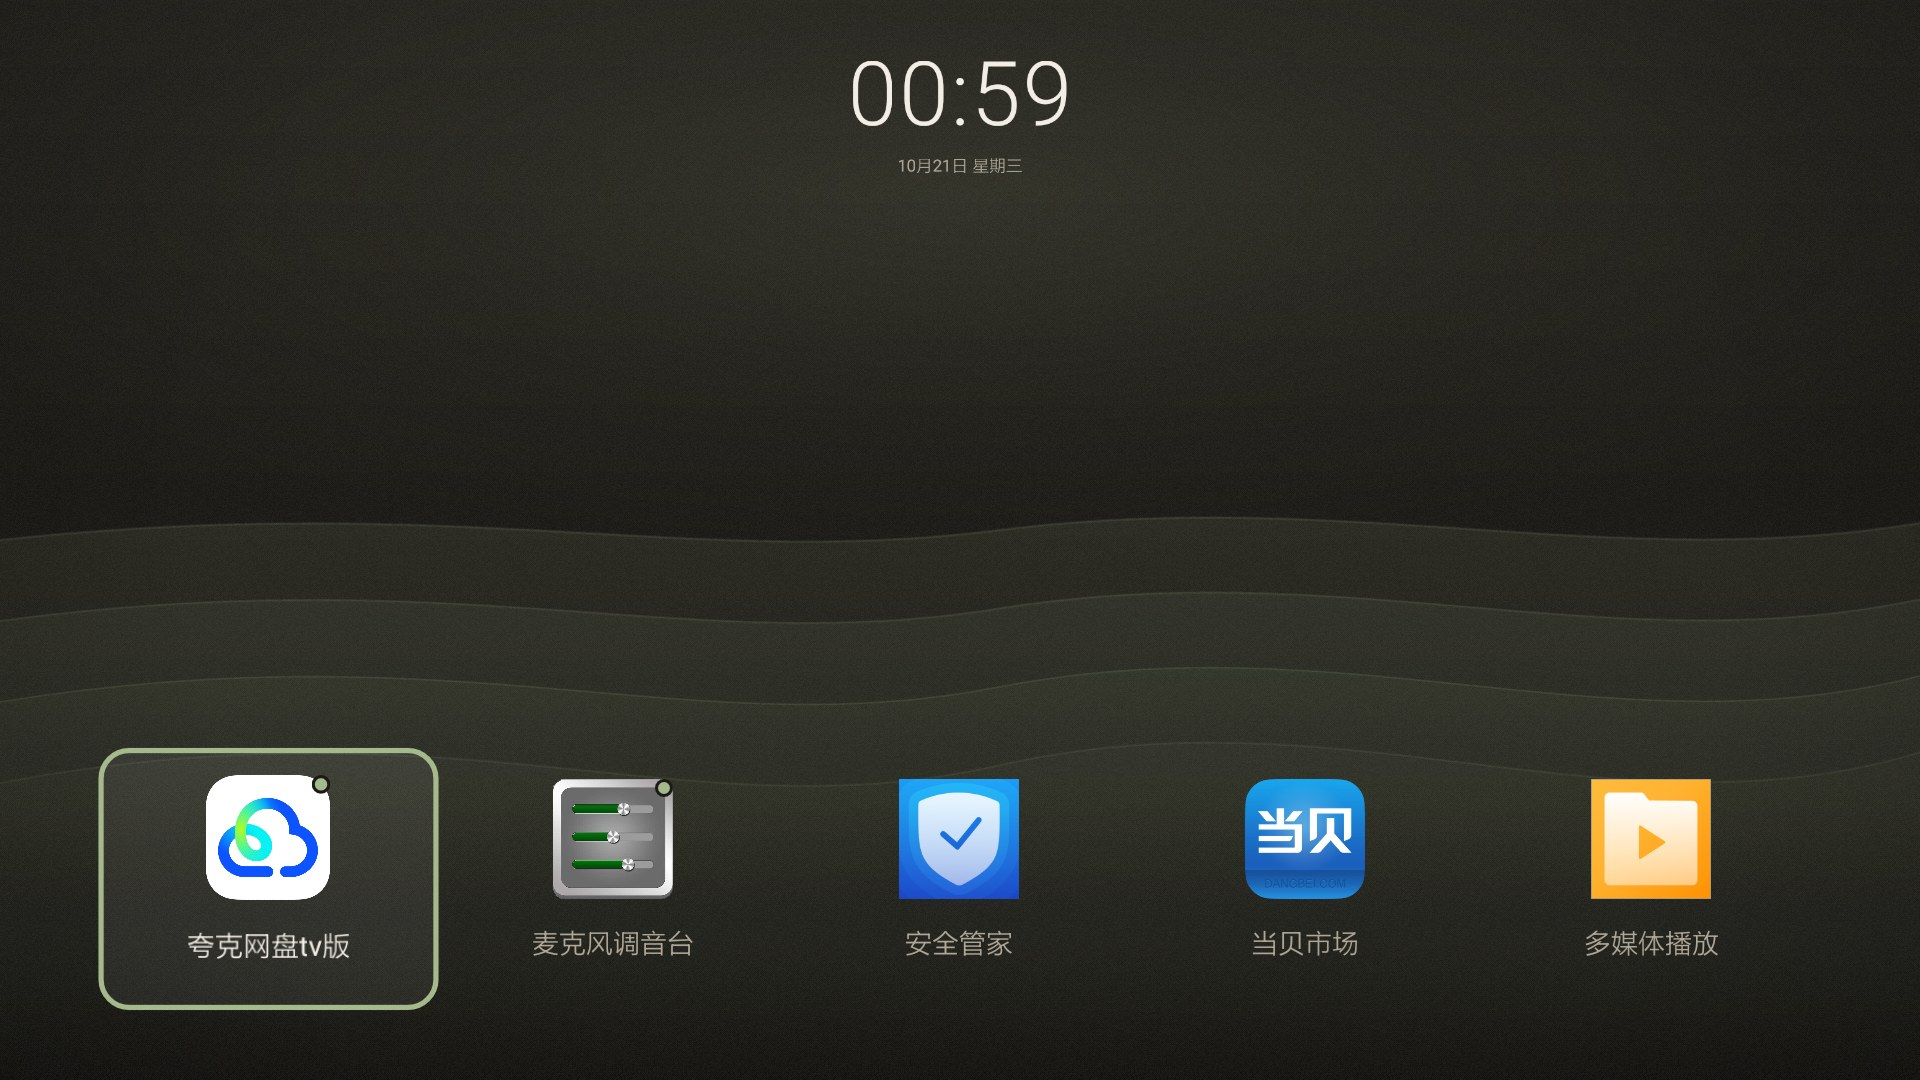
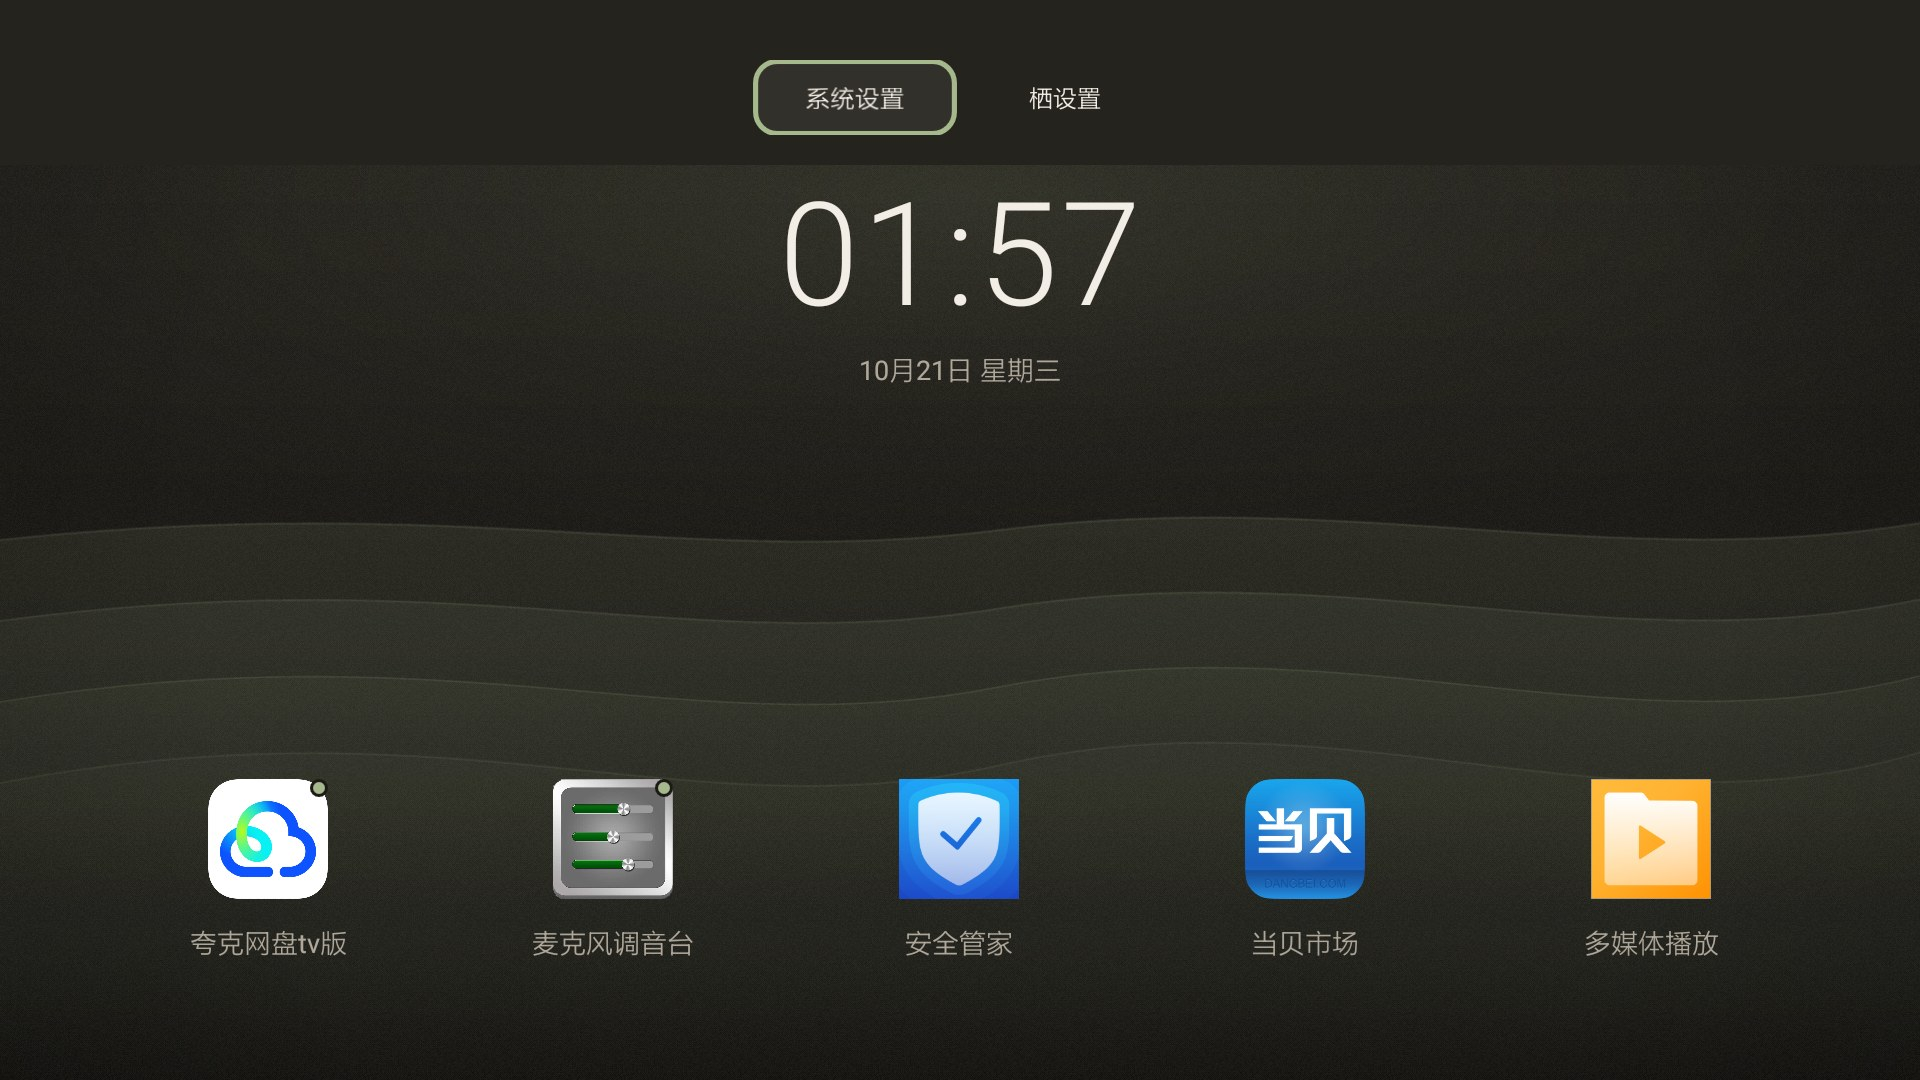
Show only the shortcuts the device can actually open
The bar offered seven entries on every device, but on the box only two of them
resolved and both landed on the same settings root; the other four pointed at
activities its TV settings app does not ship. It is now a short menu - system
settings, Perch settings, and an input source when the device exposes one -
rebuilt on every open, so an entry that cannot launch is simply absent.

The input-source entry has no public intent behind it: the candidates are the
AOSP TV settings and live-TV activities plus the action some OEM settings
register, and anything that does not resolve stays hidden.

diff --git a/src/io/github/duanechen520/perch/MainActivity.java b/src/io/github/duanechen520/perch/MainActivity.java
@@ -59,20 +59,11 @@ public class MainActivity extends Activity {
     private static final int DOCK_BOTTOM_DP = 44;
     private static final int SLIDE_MS = 220;
 
-    private static final int QUICK_NETWORK = 1;
-    private static final int QUICK_BLUETOOTH = 2;
-    private static final int QUICK_DISPLAY = 3;
-    private static final int QUICK_SOUND = 4;
-    private static final int QUICK_ACCESSIBILITY = 5;
-    private static final int QUICK_ALL_SETTINGS = 6;
-    private static final int QUICK_PERCH = 7;
-
     private final Handler handler = new Handler(Looper.getMainLooper());
     private final List<AppRepository.AppEntry> apps =
             new ArrayList<AppRepository.AppEntry>();
     private final List<View> tiles = new ArrayList<View>();
     private final List<TextView> appLabels = new ArrayList<TextView>();
-    private final List<TextView> sheetLabels = new ArrayList<TextView>();
 
     private final Runnable ticker = new Runnable() {
         @Override
@@ -372,7 +363,7 @@ public class MainActivity extends Activity {
     private void buildSheet() {
         sheet = new LinearLayout(this);
         sheet.setOrientation(LinearLayout.HORIZONTAL);
-        sheet.setGravity(Gravity.CENTER_VERTICAL);
+        sheet.setGravity(Gravity.CENTER);
         sheet.setBackgroundColor(color(R.color.sheet));
         sheet.setPadding(dp(64), dp(40), dp(64), dp(20));
         sheet.setVisibility(View.GONE);
@@ -380,44 +371,64 @@ public class MainActivity extends Activity {
                 ViewGroup.LayoutParams.MATCH_PARENT,
                 ViewGroup.LayoutParams.WRAP_CONTENT,
                 Gravity.TOP));
+    }
 
-        int[] actions = {
-                QUICK_NETWORK, QUICK_BLUETOOTH, QUICK_DISPLAY, QUICK_SOUND,
-                QUICK_ACCESSIBILITY, QUICK_ALL_SETTINGS, QUICK_PERCH
-        };
-        int[] labels = {
-                R.string.quick_network, R.string.quick_bluetooth,
-                R.string.quick_display, R.string.quick_sound,
-                R.string.quick_accessibility, R.string.quick_all_settings,
-                R.string.quick_perch
-        };
-        for (int i = 0; i < actions.length; i++) {
-            final int action = actions[i];
-            TextView item = new TextView(this);
-            item.setText(labels[i]);
-            item.setTextColor(color(R.color.text_primary));
-            item.setTextSize(TypeScale.sheet(this));
-            item.setGravity(Gravity.CENTER);
-            item.setFocusable(true);
-            item.setClickable(true);
-            item.setBackgroundResource(R.drawable.sheet_item_bg);
-            item.setPadding(dp(8), dp(14), dp(8), dp(14));
-            LinearLayout.LayoutParams params = new LinearLayout.LayoutParams(
-                    0, ViewGroup.LayoutParams.WRAP_CONTENT, 1f);
-            params.setMargins(dp(4), 0, dp(4), 0);
-            item.setLayoutParams(params);
-            item.setOnClickListener(new View.OnClickListener() {
-                @Override
-                public void onClick(View view) {
-                    openQuick(action);
-                }
-            });
-            item.setId(View.generateViewId());
-            item.setOnFocusChangeListener(scaleFocus(1.03f));
-            sheet.addView(item);
-            sheetLabels.add(item);
+    /** Rebuilt on every open: an entry that cannot be opened is simply not there. */
+    private void populateSheet() {
+        sheet.removeAllViews();
+        Intent inputSource = inputSourceIntent();
+        if (inputSource != null) {
+            addSheetItem(R.string.quick_input_source, inputSource);
         }
+        addSheetItem(R.string.quick_system_settings, new Intent(Settings.ACTION_SETTINGS));
+        addSheetItem(R.string.quick_perch, new Intent(this, SettingsActivity.class));
         linkRowHorizontally(sheet);
+    }
+
+    private void addSheetItem(int labelRes, final Intent intent) {
+        TextView item = new TextView(this);
+        item.setText(labelRes);
+        item.setTextColor(color(R.color.text_primary));
+        item.setTextSize(TypeScale.sheet(this));
+        item.setGravity(Gravity.CENTER);
+        item.setFocusable(true);
+        item.setClickable(true);
+        item.setBackgroundResource(R.drawable.sheet_item_bg);
+        item.setPadding(dp(8), dp(14), dp(8), dp(14));
+        item.setMinWidth(dp(132));
+        LinearLayout.LayoutParams params = new LinearLayout.LayoutParams(
+                ViewGroup.LayoutParams.WRAP_CONTENT, ViewGroup.LayoutParams.WRAP_CONTENT);
+        params.setMargins(dp(4), 0, dp(4), 0);
+        item.setLayoutParams(params);
+        item.setOnClickListener(new View.OnClickListener() {
+            @Override
+            public void onClick(View view) {
+                openQuick(intent);
+            }
+        });
+        item.setId(View.generateViewId());
+        item.setOnFocusChangeListener(scaleFocus(1.03f));
+        sheet.addView(item);
+    }
+
+    /**
+     * Nothing in the platform opens an input picker, so try the AOSP TV entries and the
+     * action some OEM TV settings register; anything that does not resolve stays hidden.
+     */
+    private Intent inputSourceIntent() {
+        Intent[] candidates = {
+                new Intent().setClassName("com.android.tv.settings",
+                        "com.android.tv.settings.system.InputsActivity"),
+                new Intent().setClassName("com.android.tv", "com.android.tv.SelectInputActivity"),
+                new Intent("android.settings.TV_INPUT_SETTINGS")
+        };
+        PackageManager manager = getPackageManager();
+        for (Intent candidate : candidates) {
+            if (manager.resolveActivity(candidate, 0) != null) {
+                return candidate;
+            }
+        }
+        return null;
     }
 
     private void linkRowHorizontally(LinearLayout row) {
@@ -730,6 +741,7 @@ public class MainActivity extends Activity {
             focusedPackage = (String) current.getTag();
         }
         sheetOpen = true;
+        populateSheet();
         sheet.setVisibility(View.VISIBLE);
         sheet.setAlpha(0f);
         sheet.setTranslationY(-dp(28));
@@ -805,39 +817,14 @@ public class MainActivity extends Activity {
         fullScroll.setImportantForAccessibility(mode);
     }
 
-    private void openQuick(int action) {
-        Intent intent;
-        switch (action) {
-            case QUICK_NETWORK:
-                intent = new Intent(Settings.ACTION_WIRELESS_SETTINGS);
-                break;
-            case QUICK_BLUETOOTH:
-                intent = new Intent(Settings.ACTION_BLUETOOTH_SETTINGS);
-                break;
-            case QUICK_DISPLAY:
-                intent = new Intent(Settings.ACTION_DISPLAY_SETTINGS);
-                break;
-            case QUICK_SOUND:
-                intent = new Intent(Settings.ACTION_SOUND_SETTINGS);
-                break;
-            case QUICK_ACCESSIBILITY:
-                intent = new Intent(Settings.ACTION_ACCESSIBILITY_SETTINGS);
-                break;
-            case QUICK_ALL_SETTINGS:
-                intent = new Intent(Settings.ACTION_SETTINGS);
-                break;
-            case QUICK_PERCH:
-                intent = new Intent(this, SettingsActivity.class);
-                break;
-            default:
-                return;
-        }
+    private void openQuick(Intent intent) {
         hideSheetImmediately(false);
         try {
             startActivity(intent);
         } catch (Exception e) {
             Toast.makeText(this, R.string.quick_settings_unavailable,
                     Toast.LENGTH_SHORT).show();
+            focusArea(expanded);
         }
     }
 
@@ -971,9 +958,6 @@ public class MainActivity extends Activity {
         ipCompact.setTextSize(TypeScale.aux(this));
         for (TextView label : appLabels) {
             label.setTextSize(TypeScale.appLabel(this));
-        }
-        for (TextView label : sheetLabels) {
-            label.setTextSize(TypeScale.sheet(this));
         }
         root.requestLayout();
         heroClock.post(new Runnable() {

diff --git a/README.md b/README.md
@@ -23,11 +23,11 @@ Most TV launchers are storefronts. Perch is a place to land: one calm screen, th
 - Compact first screen with five apps; ↓ expands to a 5-column, scrollable grid.
 - The clock is one shared element: expanding shrinks it and lifts it to the top while it stays centered.
 - The first screen's row of apps *is* the first row of the grid - one scrollable list, so ↓ slides it up under the clock and ↓ again carries it off the top like any other row.
-- ↑ on the first screen opens quick settings: network, Bluetooth, display, sound, accessibility, all settings, and Perch settings.
+- ↑ on the first screen opens the top menu: system settings and Perch settings, plus an input source when the device actually exposes one. Entries that cannot be opened on the device are not shown, so the menu never leads nowhere.
 - Long-press OK on any app to pin or unpin it. Up to five pinned apps move to the front and are marked with a small moss dot.
 - Text size presets (small, standard, large) apply to app labels, menus, and settings. The clock size is fixed.
 - Optional local IP display for debugging, off by default.
-- D-pad first. BACK never exits the home screen; it closes the quick settings or returns from the grid to the large clock.
+- D-pad first. BACK never exits the home screen; it closes the top menu or returns from the grid to the large clock.
 - Accessibility: 5% safe-area padding, a 3 dp high-contrast focus ring, text at 16 sp or larger, WCAG AA text contrast, one TalkBack description per app, and respect for the system animation scale.
 - Adaptive launcher icon, TV banner, English and Simplified Chinese resources.
 - A drawn 苔阶 backdrop behind every screen: warm charcoal gradient, one soft light above the clock, four receding ridges, and grain that keeps dark areas from banding.
@@ -35,18 +35,18 @@ Most TV launchers are storefronts. Perch is a place to land: one calm screen, th
 
 ## Screens
 
-| All apps (↓) | Quick settings (↑) | Perch settings |
+| All apps (↓) | Top menu (↑) | Perch settings |
 | --- | --- | --- |
-| ![All apps](docs/apps.jpg) | ![Quick settings](docs/quick-settings.jpg) | ![Perch settings](docs/settings.jpg) |
+| ![All apps](docs/apps.jpg) | ![Top menu](docs/quick-settings.jpg) | ![Perch settings](docs/settings.jpg) |
 
 ## Controls
 
-| Input | First screen | All-apps grid | Quick settings |
+| Input | First screen | All-apps grid | Top menu |
 | --- | --- | --- | --- |
-| ← / → | Move between the five apps | Move within a row | Move between settings shortcuts |
-| ↓ | Open all apps | Move down | Close the sheet |
-| ↑ | Open quick settings | Collapse from the first row, otherwise move up | — |
-| OK | Open the app | Open the app | Open the settings screen |
+| ← / → | Move between the five apps | Move within a row | Move between menu entries |
+| ↓ | Open all apps | Move down | Close the menu |
+| ↑ | Open the top menu | Collapse from the first row, otherwise move up | — |
+| OK | Open the app | Open the app | Open the entry |
 | Long-press OK | Pin / unpin the app | Pin / unpin the app | — |
 | BACK | Stay on the home screen | Collapse to the large clock | Close the sheet |
 | HOME | Return to Perch | Return to Perch | Return to Perch |
@@ -122,8 +122,8 @@ Future releases will use the same signing key, so updates can be installed over 
 - No text below 16 sp in the launcher UI. Three text-size presets are available.
 - App labels wrap to two lines instead of shrinking.
 - Every app tile has a single accessibility description; pinned apps include their pinned state.
-- The quick-settings sheet blocks the background from accessibility focus while open.
-- The quick-settings, focus, and expand/collapse animations honor the system animator duration scale.
+- The top menu blocks the background from accessibility focus while open.
+- The menu, focus, and expand/collapse animations honor the system animator duration scale.
 
 A full TalkBack screen-reader pass on a TV remote has not been performed. Visible focus, content descriptions, contrast, and text sizes have been checked on the test device.
 
@@ -165,7 +165,7 @@ The launcher icon and TV banner can be regenerated with `tools/make_assets.ps1` 
 ```
 AndroidManifest.xml                         app, permissions, components, queries
 src/io/github/duanechen520/perch/
-  MainActivity.java                         home screen, grid, quick settings
+  MainActivity.java                         home screen, grid, top menu
   SettingsActivity.java                     settings and pinned-app management
   AppRepository.java                        app discovery, ordering, pin storage
   TypeScale.java                            text-size presets
@@ -208,7 +208,7 @@ App icons and app names shown in the screenshots belong to their respective appl
 
 **栖（Perch）** 是一个安静、离线、无广告的 Android TV 桌面。
 
-首屏只有大时钟、日期和一排应用；按 ↓ 展开全部应用（首屏那一排就是矩阵的第一行：时钟连续缩小上移并始终居中，第一行随之升到它下方，再按 ↓ 会像其他行一样滚出画面），按 ↑ 打开顶部快捷设置，长按 OK 可在最多 5 个范围内置顶应用，BACK 从列表回到大时钟。字号支持小、标准、大三档，时钟支持 24 小时或跟随系统，本机 IP 显示仅作为默认关闭的调试选项。
+首屏只有大时钟、日期和一排应用；按 ↓ 展开全部应用（首屏那一排就是矩阵的第一行：时钟连续缩小上移并始终居中，第一行随之升到它下方，再按 ↓ 会像其他行一样滚出画面），按 ↑ 打开顶部菜单（系统设置、栖设置；设备真有输入源时才会多出一项"输入源"），长按 OK 可在最多 5 个范围内置顶应用，BACK 从列表回到大时钟。字号支持小、标准、大三档，时钟支持 24 小时或跟随系统，本机 IP 显示仅作为默认关闭的调试选项。
 
 它不申请 INTERNET 权限，没有广告、遥测、推荐位和第三方 SDK；唯一权限是用于读取本机 IP 的 `ACCESS_NETWORK_STATE`。界面使用 5% 安全边距、3dp 焦点环、不低于 16sp 的文字和高对比度配色，并为每个应用提供单条无障碍描述。背景「苔阶」由 Canvas 渐变、四道山脊与细颗粒实时绘制，不打包任何图片资源，720p 到 8K 共用同一套比例坐标。
 

diff --git a/CHANGELOG.md b/CHANGELOG.md
@@ -13,6 +13,8 @@
 - Fixed the focused row resting half off the bottom of the screen on 720p: the platform's own reveal for a focused child ignores the list's bottom inset here, so the matrix now positions the reveal itself and keeps every row inside the safe area.
 - The clock now tracks the scroll offset instead of a separate expanded flag, so it can never disagree with the list - coming back up always returns it to full size.
 - Pressing ↓ on the last row no longer pages the list: a plain ScrollView treats unhandled D-pad presses as page scrolls, which walked the whole matrix off the screen. The matrix now leaves those keys to focus navigation, so the last row simply stays where it is.
+- The top bar is now a short menu instead of seven shortcuts: system settings, Perch settings, and an input source when the device really exposes one. On the box most of the old entries were dead ends - network, Bluetooth, display, sound and accessibility could not resolve at all, and the two that did both landed on the same settings root.
+- Every entry in the menu is resolved on the device before it is shown, so the bar can never lead nowhere; the matrix still reaches the Perch settings screen.
 - Verified on an Android 5.1.1 TV box at 1080p and at a forced 720p, including a real reboot with Perch as the only home app.
 
 ## 0.1.0 - 2026-10-20
